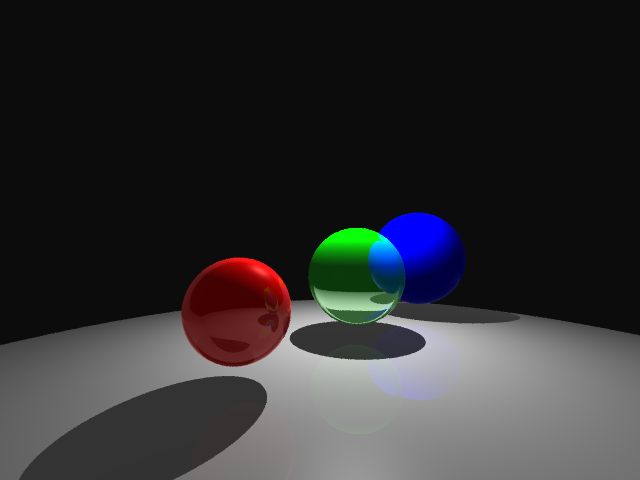
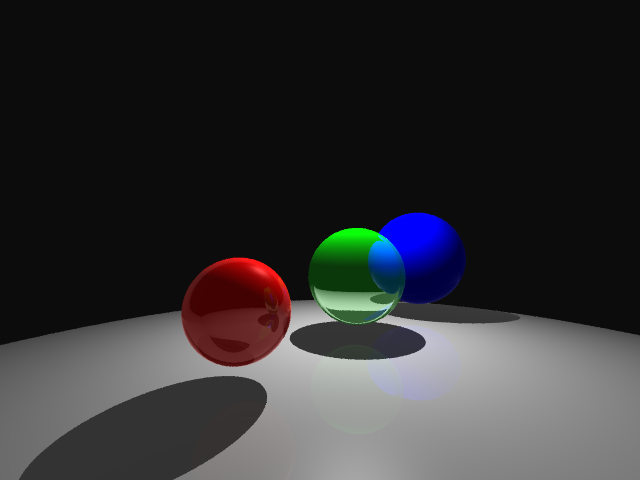
cows

Changed region(s): [[0.5, 0.4688, 0.6875, 0.5625], [0.6875, 0.4688, 0.7188, 0.5]]

diff --git a/Raytracer.cpp b/Raytracer.cpp
@@ -8,9 +8,9 @@
 
 #define SAMPLE_COUNT 9
 
-#define KC 0.02
-#define KL 0.03
-#define KQ 0.04
+#define KC 2
+#define KL 1
+#define KQ 0.2
 
 #define MAX_T 1000
 #define RAY_EPS 0.0001		// Prevents acne
@@ -94,7 +94,7 @@ Color Shade(Vec3f v, Vec3f n, Vec3f p, Material material, Scene *scene, bool hit
 			Vec3f rayReflected = ((2 * lightDir.Dot(n)) * n) - lightDir;
 			float specular = std::clamp(rayReflected.Dot(v), 0.f, 1.f);
 
-			shade = shade + material.diffuse * diffuse + material.specular * specular;
+			shade = shade + directionalLight.intensity * material.diffuse * diffuse + directionalLight.intensity * material.specular * specular;
 		}
 	}
 
@@ -110,7 +110,7 @@ Color Shade(Vec3f v, Vec3f n, Vec3f p, Material material, Scene *scene, bool hit
 			float specular = powf(std::clamp(rayReflected.Dot(v), 0.f, 1.f), material.specularCoeff);
 
 			float falloff = 1 / (KC + KL * dist + KQ * (dist * dist));
-			shade = shade + falloff * (material.diffuse * diffuse + material.specular * specular);
+			shade = shade + falloff * (material.diffuse * pointLight.intensity * diffuse + material.specular * pointLight.intensity * specular);
 		}
 	}
 
